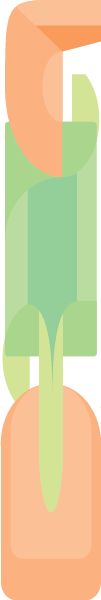
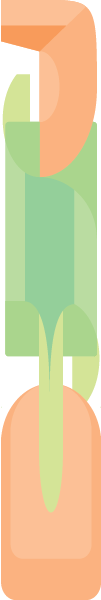
P2: Modified image assets for better colors, paddles facing inside, tweaked background color

diff --git a/projects/project2/js/Decoy.js b/projects/project2/js/Decoy.js
@@ -25,7 +25,7 @@ Decoy.prototype.display = function(){
   push();
   translate(width/2+this.oModifier, height/2+this.oModifier);
   rotate(this.angle);
-  image(sheep,this.x,this.y,ball.size,ball.size);
+  image(sheep,this.x,this.y,ball.size*1.2,ball.size*1.2);
   console.log(leftScoreboard.x)
   pop();
 }

diff --git a/projects/project2/js/script.js b/projects/project2/js/script.js
@@ -181,7 +181,7 @@ function setup() {
 // Handles input, updates all the elements, checks for collisions
 // and displays everything.
 function draw() {
-  background(158, 136, 104);
+  background("#a8c089");
 
   ////// NEW //////////
   // the switch statement checks the state of the game
